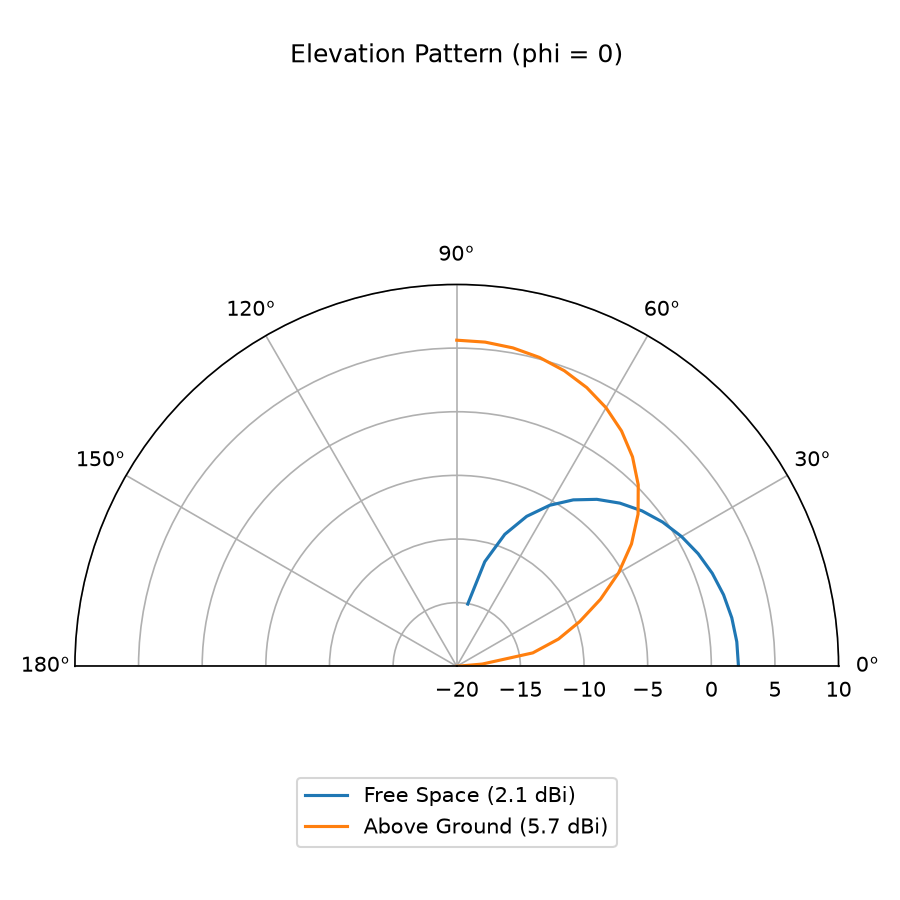
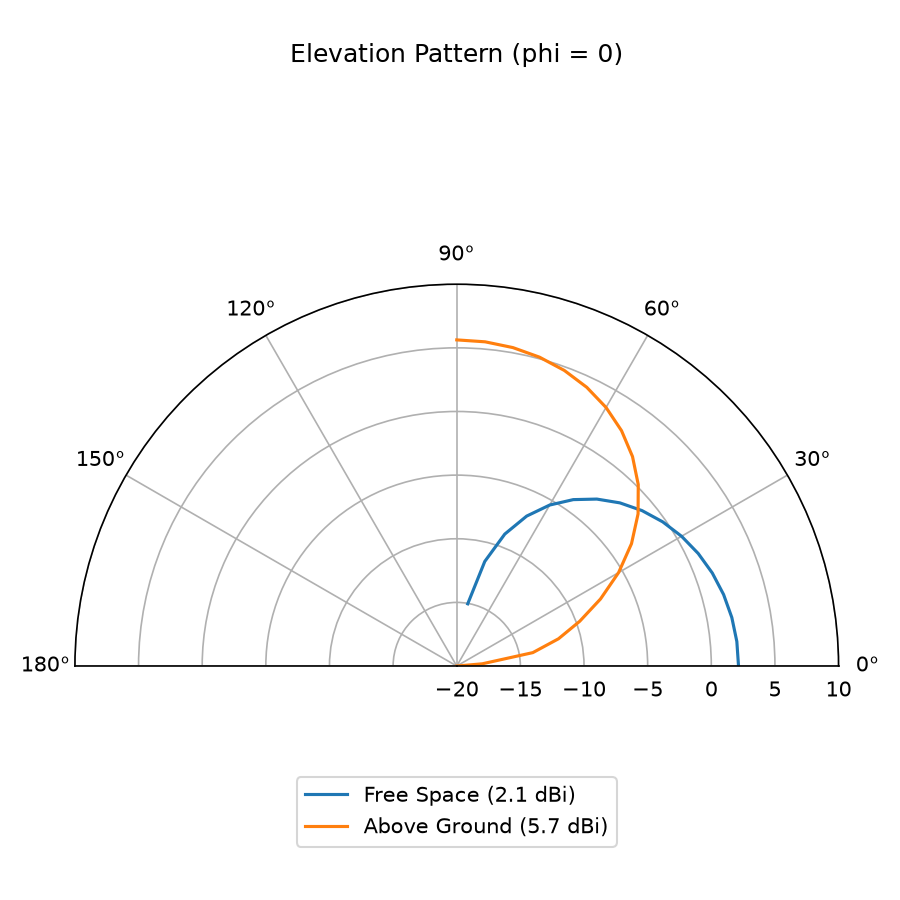
Unify NEC simulation core into nec_core.py
- Extract shared simulate_dipole() used by both dipole_env.py and
  sanity test/testing_nec.py, replacing two independent implementations
- Auto-compute n_segs based on length/wire_radius ratio instead of
  hardcoded 21, with explicit validity check (MIN_SEG_TO_RADIUS_RATIO)
- Validated: free-space gain 2.14 dBi (was 2.13), ground gain 5.72 dBi
  (was 5.71), VSWR minimum still at 0.48 lambda at 100 MHz
- Spot-checked at RL operating point (2400 MHz, 0.15mm radius):
  near-resonance impedance ~75 ohm, consistent with theory

diff --git a/sanity test/testing_nec.py b/sanity test/testing_nec.py
@@ -9,108 +9,10 @@ due to end effects on a finite-radius wire.
 This script sweeps dipole length across that range and confirms the minimum
 VSWR falls where theory predicts, before any RLagent is involved.
 """
-
-from PyNEC import nec_context
-import math
-
-def simulate_dipole(length_m, freq_mhz=100.0, wire_radius_m=0.001, z0=50.0, height_m=None, ground=False):
-    """
-    Simulate a center-fed dipole.
-
-    height_m: if set (and ground=True), the dipole is placed horizontally
-              at this height above ground instead of at the origin.
-    ground:   False -> free space (as before)
-              True  -> real, finite ground plane (average earth: eps_r=13, sigma=0.005 S/m)
- 
-    Returns: dict with impedance, vswr, max_gain_dbi, gain_direction (theta, phi)
-    """
-    nec = nec_context()
-    geo = nec.get_geometry()
-    
-    n_segs = 21  #odd -> clean center segment for the feed point
-    half_len = length_m / 2.0
-    
-    if ground:
-        # Horizontal dipole at height_m above ground, running along x-axis.
-        # z must be > 0 and non-zero, or NEC treats it as touching ground.
-        z = height_m if height_m else 0.25 * (300.0 / freq_mhz)  # default: quarter-wave up
-        geo.wire(1, n_segs, -half_len, 0, z, half_len, 0, z, wire_radius_m, 1.0, 1.0)
-    else:
-        # Vertical dipole centered at origin, free space
-        geo.wire(1, n_segs, 0, 0, -half_len, 0, 0, half_len, wire_radius_m, 1.0, 1.0)
-
-    nec.geometry_complete(0)
-
-    if ground:
-        # gn_card(ground_type, n_radials, epse, sig, ...)
-        # ground_type=0 -> finite ground, Sommerfeld/Norton approximation (accurate, slower)
-        # n_radials=0   -> no radial-wire ground screen (just flat lossy ground)
-        # epse=13.0     -> relative permittivity (average earth)
-        # sig=0.005     -> conductivity in S/m (average earth)
-        nec.gn_card(0, 0, 13.0, 0.005, 0, 0, 0, 0)
-    else:
-        nec.gn_card(-1, 0, 0, 0, 0, 0, 0, 0)  # free space, as before
-
-    feed_seg = (n_segs + 1) // 2
-    nec.ex_card(0, 1, feed_seg, 0, 1.0, 0, 0, 0, 0, 0)  #voltage source at center
-    nec.fr_card(0, 1, freq_mhz, 0)
-
-    # request a radiation pattern before executing ---
-    # rp_card(calc_mode, n_theta, n_phi,
-    #         output_format, normalization, D/A conversion, average,
-    #         theta0, phi0, delta_theta, delta_phi, radial_distance, gain_norm)
-    #
-    # calc_mode=0     -> normal mode (full 3D pattern over the ranges given)
-    # n_theta, n_phi  -> how many angle steps to compute (resolution)
-    # theta0=0        -> start at zenith (0 deg from +z axis), theta=90 is the horizon
-    # phi0=0          -> start at 0 deg azimuth
-    # delta_theta/phi -> step size in degrees
-    #
-    # IMPORTANT: with real ground present, NEC2 only computes the upper half-space
-    # (theta 0-90 deg, i.e. above the horizon) -- points "underground" (theta>90)
-    # are physically meaningless and come back as garbage values, so we
-    # must not sweep past 90 deg when ground=True.
-    if ground:
-        n_theta, d_theta = 19, 5.0   # theta: 0 to 90 deg in 5 deg steps
-    else:
-        n_theta, d_theta = 37, 5.0   # theta: 0 to 180 deg (full sphere, free space)
-    n_phi, d_phi = 37, 10.0          # phi: 0 to 360 deg in 10 deg steps
-    nec.rp_card(0, n_theta, n_phi, 0, 5, 0, 0, 0.0, 0.0, d_theta, d_phi, 0, 0)
-
-    nec.xq_card(0)
-
-    ipt = nec.get_input_parameters(0)
-    impedance = ipt.get_impedance()[0]
-    gamma = abs((impedance - z0) / (impedance + z0))
-    vswr = (1 + gamma) / (1 - gamma) if gamma < 0.999 else 999.0
-
-    # pull the radiation pattern and find peak gain
-    rp = nec.get_radiation_pattern(0)
-    gains_db = rp.get_gain()          # 2D array [theta_index][phi_index], in dBi
-    thetas = rp.get_theta_angles()    # degrees
-    phis = rp.get_phi_angles()        # degrees
- 
-    # -999.99 is NEC2's sentinel for "not computed / invalid point"
-    max_gain = -999.0
-    max_theta, max_phi = None, None
-    for i, th in enumerate(thetas):
-        for j, ph in enumerate(phis):
-            g = gains_db[i][j]
-            if not math.isfinite(g) or g <= -999.0 or g > 100.0:
-                continue
-            if g > max_gain:
-                max_gain, max_theta, max_phi = g, th, ph
-
-    return {
-        "impedance": impedance,
-        "vswr": vswr,
-        "max_gain_dbi": max_gain,
-        "gain_direction": (max_theta, max_phi),
-        "gains_db": gains_db,
-        "thetas": thetas,
-        "phis": phis,
-    }
-
+import sys
+import os
+sys.path.insert(0, os.path.join(os.path.dirname(__file__), ".."))
+from nec_core import simulate_dipole
 
 if __name__ == "__main__":
     freq = 100.0 #MHz

diff --git a/nec_core.py b/nec_core.py
@@ -1,0 +1,111 @@
+"""
+Shared NEC2 dipole simulation core.
+Single source of truth for both the sanity-check validation (sanity test/testing_nec.py)
+and the RL environment (dipole_env.py). Any change here must be re-validated via
+sanity test/testing_nec.py before being trusted by training code.
+"""
+import math
+from PyNEC import nec_context
+
+MIN_SEG_TO_RADIUS_RATIO = 8.0  # thin-wire kernel validity floor; warn below this
+
+
+def compute_n_segs(length_m, wire_radius_m, target_ratio=15.0, min_segs=9, max_segs=41):
+    """
+    Choose an odd segment count so segment_length / wire_radius stays comfortably
+    above the thin-wire kernel's validity floor, without over-segmenting.
+    Odd count keeps a clean center segment for the feed point.
+    """
+    n = round((length_m / target_ratio) / wire_radius_m) if wire_radius_m > 0 else min_segs
+    n = max(min_segs, min(max_segs, n))
+    if n % 2 == 0:
+        n += 1
+    return n
+
+
+def simulate_dipole(length_m, freq_mhz=100.0, wire_radius_m=0.001, z0=50.0,
+                     ground=False, height_m=None, return_pattern=False,
+                     n_segs=None):
+    """
+    Simulate a center-fed dipole in NEC2.
+
+    ground=False -> free space, vertical dipole at origin
+    ground=True  -> horizontal dipole at height_m over real ground (eps_r=13, sigma=0.005 S/m)
+    return_pattern=False -> skip rp_card/xq_card pattern extraction (fast path for RL loops)
+    n_segs=None   -> auto-computed via compute_n_segs(); pass explicit int to override
+
+    Returns dict with impedance, vswr, and (if return_pattern) gain/pattern fields.
+    """
+    half_len = length_m / 2.0
+
+    if n_segs is None:
+        n_segs = compute_n_segs(length_m, wire_radius_m)
+    ratio = (length_m / n_segs) / wire_radius_m if wire_radius_m > 0 else float("inf")
+    if ratio < MIN_SEG_TO_RADIUS_RATIO:
+        raise ValueError(
+            f"segment_length/wire_radius = {ratio:.2f} is below the thin-wire validity "
+            f"floor of {MIN_SEG_TO_RADIUS_RATIO}. length_m={length_m}, "
+            f"wire_radius_m={wire_radius_m}, n_segs={n_segs}. Increase n_segs or radius."
+        )
+
+    nec = nec_context()
+    geo = nec.get_geometry()
+
+    if ground:
+        z = height_m if height_m else 0.25 * (300.0 / freq_mhz)
+        geo.wire(1, n_segs, -half_len, 0, z, half_len, 0, z, wire_radius_m, 1.0, 1.0)
+    else:
+        geo.wire(1, n_segs, 0, 0, -half_len, 0, 0, half_len, wire_radius_m, 1.0, 1.0)
+
+    nec.geometry_complete(0)
+
+    if ground:
+        nec.gn_card(0, 0, 13.0, 0.005, 0, 0, 0, 0)
+    else:
+        nec.gn_card(-1, 0, 0, 0, 0, 0, 0, 0)
+
+    feed_seg = (n_segs + 1) // 2
+    nec.ex_card(0, 1, feed_seg, 0, 1.0, 0, 0, 0, 0, 0)
+    nec.fr_card(0, 1, freq_mhz, 0)
+
+    if return_pattern:
+        if ground:
+            n_theta, d_theta = 19, 5.0
+        else:
+            n_theta, d_theta = 37, 5.0
+        n_phi, d_phi = 37, 10.0
+        nec.rp_card(0, n_theta, n_phi, 0, 5, 0, 0, 0.0, 0.0, d_theta, d_phi, 0, 0)
+
+    nec.xq_card(0)
+
+    ipt = nec.get_input_parameters(0)
+    impedance = ipt.get_impedance()[0]
+    gamma = abs((impedance - z0) / (impedance + z0))
+    vswr = (1 + gamma) / (1 - gamma) if gamma < 0.999 else 999.0
+
+    result = {"impedance": impedance, "vswr": vswr}
+
+    if return_pattern:
+        rp = nec.get_radiation_pattern(0)
+        gains_db = rp.get_gain()
+        thetas = rp.get_theta_angles()
+        phis = rp.get_phi_angles()
+
+        max_gain, max_theta, max_phi = -999.0, None, None
+        for i, th in enumerate(thetas):
+            for j, ph in enumerate(phis):
+                g = gains_db[i][j]
+                if not math.isfinite(g) or g <= -999.0 or g > 100.0:
+                    continue
+                if g > max_gain:
+                    max_gain, max_theta, max_phi = g, th, ph
+
+        result.update({
+            "max_gain_dbi": max_gain,
+            "gain_direction": (max_theta, max_phi),
+            "gains_db": gains_db,
+            "thetas": thetas,
+            "phis": phis,
+        })
+
+    return result

diff --git a/dipole_env.py b/dipole_env.py
@@ -2,30 +2,10 @@
 import numpy as np
 import gymnasium as gym
 from gymnasium import spaces
-from PyNEC import nec_context
+from nec_core import simulate_dipole
+
 
 MAX_STEPS = 150
-
-def simulate_dipole_vswr(length_m, freq_mhz=2400.0, wire_radius_m=0.00015, z0=50.0):
-    """Run one NEC2 simulation and return (impedance, vswr) for a center-fed dipole."""
-    nec = nec_context()
-    geo = nec.get_geometry()
-    n_segs = 21
-    half_len = length_m / 2.0
-    geo.wire(1, n_segs, 0, 0, -half_len, 0, 0, half_len, wire_radius_m, 1.0, 1.0)
-    nec.geometry_complete(0)
-
-    nec.gn_card(-1, 0, 0, 0, 0, 0, 0, 0)
-    feed_seg = (n_segs + 1) // 2
-    nec.ex_card(0, 1, feed_seg, 0, 1.0, 0, 0, 0, 0, 0)
-    nec.fr_card(0, 1, freq_mhz, 0)
-    nec.xq_card(0)
-
-    ipt = nec.get_input_parameters(0)
-    impedance = ipt.get_impedance()[0]
-    gamma = abs((impedance - z0) / (impedance + z0))
-    vswr = (1 + gamma) / (1 - gamma) if gamma < 0.999 else 999.0
-    return impedance, vswr
 
 class DipoleEnv(gym.Env):
     metadata = {"render_modes": []}
@@ -52,7 +32,8 @@ class DipoleEnv(gym.Env):
         super().reset(seed=seed)
         self.steps = 0
         self.length = float(self.np_random.uniform(self.length_min, self.length_max))
-        _, vswr = simulate_dipole_vswr(self.length, self.target_freq_mhz, self.wire_radius_m)
+        result = simulate_dipole(self.length, self.target_freq_mhz, self.wire_radius_m)
+        vswr = result["vswr"]
         return np.array([self.length, vswr], dtype=np.float32), {}
 
     def step(self, action):
@@ -60,8 +41,9 @@ class DipoleEnv(gym.Env):
         delta = float(np.clip(action[0], self.action_space.low[0], self.action_space.high[0]))
         self.length = float(np.clip(self.length + delta, self.length_min, self.length_max))
 
-        _, vswr = simulate_dipole_vswr(self.length, self.target_freq_mhz, self.wire_radius_m)
-        
+        result = simulate_dipole(self.length, self.target_freq_mhz, self.wire_radius_m)
+        vswr = result["vswr"]
+
         reward = -np.log(vswr)
         terminated = vswr < 1.05
         truncated = self.steps >= self.max_steps

diff --git a/sanity test/plot_result_test.py b/sanity test/plot_result_test.py
@@ -115,14 +115,13 @@ def plot_3d_comparison(r_free, r_ground):
     plt.close()
 
 if __name__ == "__main__":
-    r_free = simulate_dipole(RESONANT_LENGTH, FREQ_MHZ, ground=False)
-    r_ground = simulate_dipole(RESONANT_LENGTH, FREQ_MHZ, ground=True)
+    r_free = simulate_dipole(RESONANT_LENGTH, FREQ_MHZ, ground=False, return_pattern=True)
+    r_ground = simulate_dipole(RESONANT_LENGTH, FREQ_MHZ, ground=True, return_pattern=True)
 
-    print(f"Free Space:  Z={r_free['impedance']:.1f} Ω | VSWR={r_free['vswr']:.2f} | Peak Gain={r_free['max_gain_dbi']:.2f} dBi")
-    print(f"Real Ground: Z={r_ground['impedance']:.1f} Ω | VSWR={r_ground['vswr']:.2f} | Peak Gain={r_ground['max_gain_dbi']:.2f} dBi")
+    print(f"Free Space:  Z={r_free.get('impedance', 0):.1f} Ω | VSWR={r_free.get('vswr', 0):.2f} | Peak Gain={r_free.get('max_gain_dbi', 0.0):.2f} dBi")
+    print(f"Real Ground: Z={r_ground.get('impedance', 0):.1f} Ω | VSWR={r_ground.get('vswr', 0):.2f} | Peak Gain={r_ground.get('max_gain_dbi', 0.0):.2f} dBi")
 
     plot_vswr()
     plot_2d_polar_comparison(r_free, r_ground)
     plot_3d_comparison(r_free, r_ground)
-    plot_cartesian_pattern(r_free, r_ground)
     print("All plots generated successfully!")
